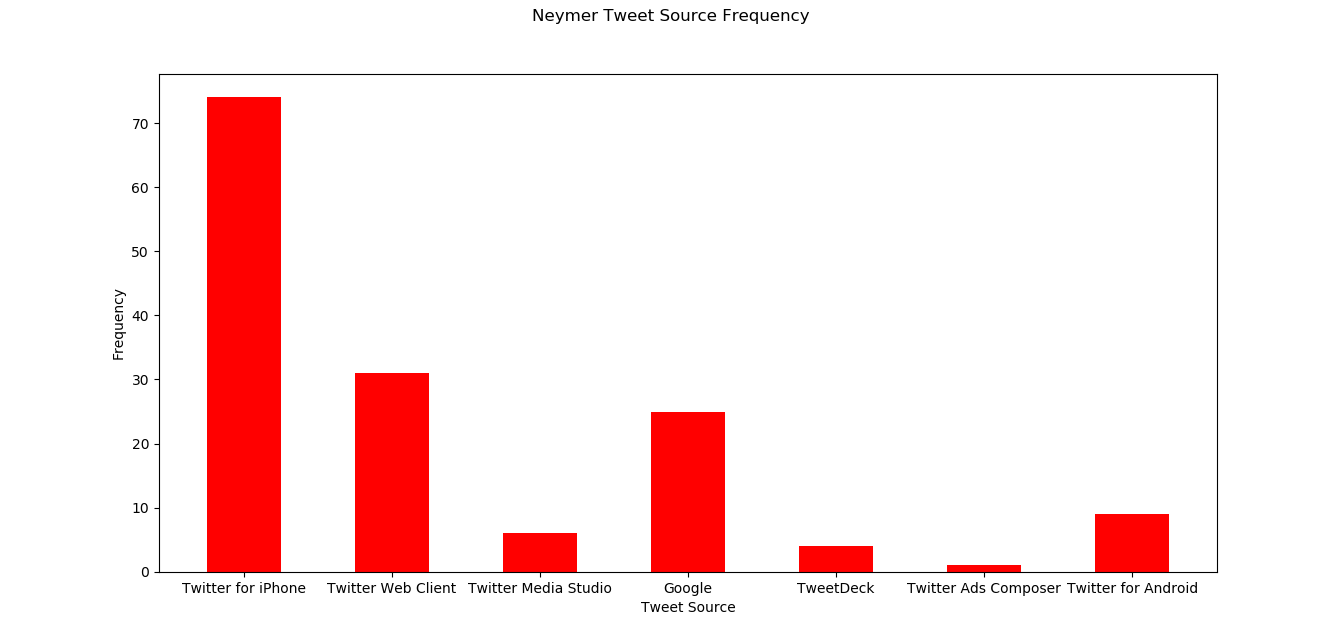
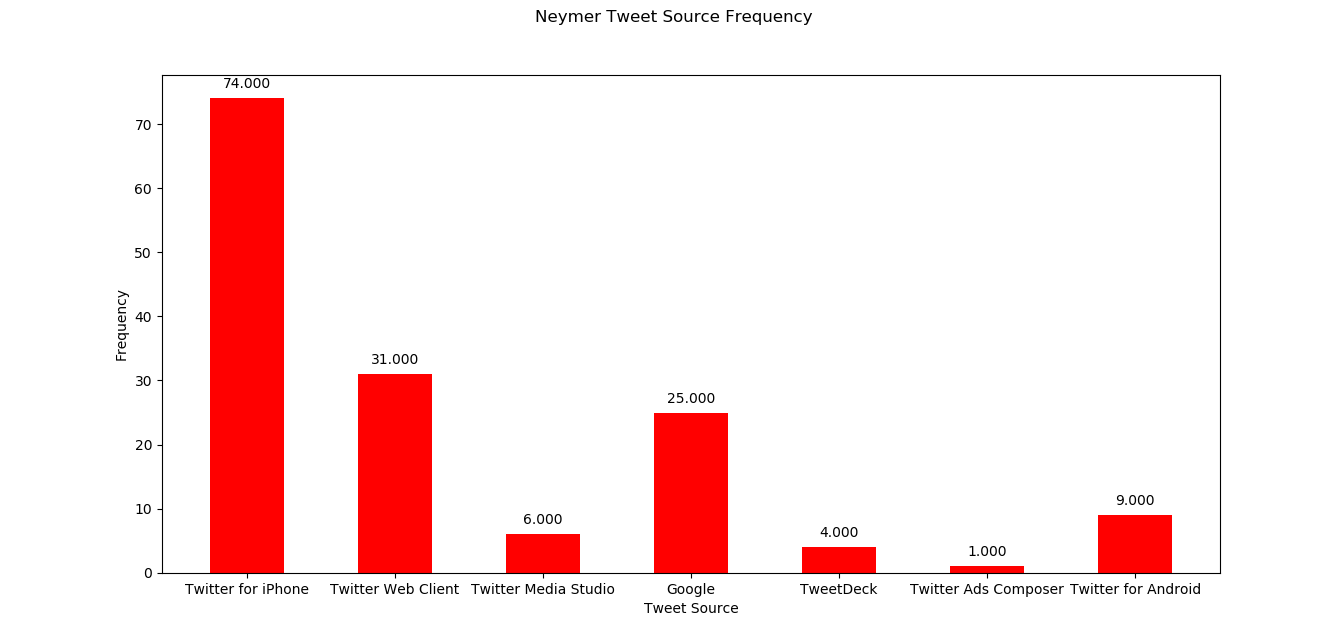
twitter ratio complete

diff --git a/twitter_ratio_analysis.py b/twitter_ratio_analysis.py
@@ -9,6 +9,7 @@ import matplotlib.pyplot as plt
 import tweepy
 import requests
 from bs4 import BeautifulSoup
+import pickle
 
 #Setting up Authentication
 
@@ -17,12 +18,57 @@ auth.set_access_token(access_token, access_secret)
 
 api = tweepy.API(auth)
 
+
+#Functions that adds labels at the end of each bar in a bar chart
+def add_value_labels(ax, spacing=5):
+    """Add labels to the end of each bar in a bar chart.
+
+    Arguments:
+        ax (matplotlib.axes.Axes): The matplotlib object containing the axes
+            of the plot to annotate.
+        spacing (int): The distance between the labels and the bars.
+    """
+
+    # For each bar: Place a label
+    for rect in ax.patches:
+        # Get X and Y placement of label from rect.
+        y_value = rect.get_height()
+        x_value = rect.get_x() + rect.get_width() / 2
+
+        # Number of points between bar and label. Change to your liking.
+        space = spacing
+        # Vertical alignment for positive values
+        va = 'bottom'
+
+        # If value of bar is negative: Place label below bar
+        if y_value < 0:
+            # Invert space to place label below
+            space *= -1
+            # Vertically align label at top
+            va = 'top'
+
+        # Use Y value as label and format number with one decimal place
+        label = "{:.3f}".format(y_value)
+
+        # Create annotation
+        ax.annotate(
+            label,                      # Use `label` as label
+            (x_value, y_value),         # Place label at end of the bar
+            xytext=(0, space),          # Vertically shift label by `space`
+            textcoords="offset points", # Interpret `xytext` as offset in points
+            ha='center',                # Horizontally center label
+            va=va)                      # Vertically align label differently for
+                                        # positive and negative values.
+
+
+
+
 #Calculating twitter ration for twitter accounts -Messi, Ronaldo, Neymer
 
+"""
 #Twitter ratio for messi
 twitter_ratio_messi = []
-for status in tweepy.Cursor(api.user_timeline, id="imessi").items(1000):
-    print(status.text)
+for status in tweepy.Cursor(api.user_timeline, id="imessi").items(150):
     retweets = status.retweet_count
     likes = status.favorite_count
     status = 'https://twitter.com/imessi/status/{}'.format(status.id)
@@ -32,9 +78,100 @@ for status in tweepy.Cursor(api.user_timeline, id="imessi").items(1000):
     num_replies = int(replies['data-tweet-stat-count'])
     print(retweets, likes, num_replies)
     twitter_ratio_messi.append(round((num_replies/(likes + retweets)), 3))  
-    print(twitter_ratio_messi)
     print("--------------------------------------------------------------------")
         
+print(twitter_ratio_messi)
+print(len(twitter_ratio_messi))
+
+#Pickling twitter ratio for messi
+with open('pickles/twitter_ratio_messi.pkl', 'wb') as f:
+    pickle.dump(twitter_ratio_messi, f)
+
+
+#Twitter ratio for Ronaldo
+twitter_ratio_ronaldo = []
+for status in tweepy.Cursor(api.user_timeline, id="Cristiano").items(150):
+    retweets = status.retweet_count
+    likes = status.favorite_count
+    status = 'https://twitter.com/Cristiano/status/{}'.format(status.id)
+    r = requests.get(status)
+    soup = BeautifulSoup(r.text, 'html5lib')
+    replies = soup.find('span', {"class": "ProfileTweet-actionCount"})
+    num_replies = int(replies['data-tweet-stat-count'])
+    print(retweets, likes, num_replies)
+    twitter_ratio_ronaldo.append(round((num_replies/(likes + retweets)), 3))  
+    print("--------------------------------------------------------------------")
+        
+print(twitter_ratio_ronaldo)
+print(len(twitter_ratio_ronaldo))
+
+#Pickling twitter ratio for ronaldo
+with open('pickles/twitter_ratio_ronaldo.pkl', 'wb') as f:
+    pickle.dump(twitter_ratio_ronaldo, f)
+
+
+#Twitter ratio for neymer
+twitter_ratio_neymer = []
+for status in tweepy.Cursor(api.user_timeline, id="neymarjr").items(150):
+    retweets = status.retweet_count
+    likes = status.favorite_count
+    status = 'https://twitter.com/neymarjr/status/{}'.format(status.id)
+    r = requests.get(status)
+    soup = BeautifulSoup(r.text, 'html5lib')
+    replies = soup.find('span', {"class": "ProfileTweet-actionCount"})
+    num_replies = int(replies['data-tweet-stat-count'])
+    print(retweets, likes, num_replies)
+    twitter_ratio_neymer.append(round((num_replies/(likes + retweets)), 3))  
+    print("--------------------------------------------------------------------")
+        
+print(twitter_ratio_neymer)
+print(len(twitter_ratio_neymer))
+
+#Pickling twitter ratio for neymer
+with open('pickles/twitter_ratio_neymer.pkl', 'wb') as f:
+    pickle.dump(twitter_ratio_neymer, f)
+
+"""
+
+#loading from pickel cashed file 
+with open('pickles/twitter_ratio_messi.pkl', 'rb') as f:
+    twitter_ratio_messi  = pickle.load(f)
+
+with open('pickles/twitter_ratio_ronaldo.pkl', 'rb') as f:
+    twitter_ratio_ronaldo  = pickle.load(f)
+    
+with open('pickles/twitter_ratio_neymer.pkl', 'rb') as f:
+    twitter_ratio_neymer  = pickle.load(f)
+
+
+twitter_ratio = {}
+
+twitter_ratio["Messi"] = round((sum(twitter_ratio_messi)/ len(twitter_ratio_messi)) * 100, 4)
+twitter_ratio["Ronaldo"] = round((sum(twitter_ratio_ronaldo)/ len(twitter_ratio_ronaldo)) * 100, 4)
+twitter_ratio["Neymer"] = round((sum(twitter_ratio_neymer)/ len(twitter_ratio_neymer)) * 100, 4)
+
+print(twitter_ratio)
+
+
+
+
+
+#plotting the twitter ratio of messi, ronaldo, neymer
+
+figure, ax = plt.subplots()
+ax.bar(list(twitter_ratio.keys()), list(twitter_ratio.values()),width=0.5, )
+figure.suptitle('Average Twitter Ratio')
+ax.set_xlabel('Users')
+ax.set_ylabel('Twitter ratio')
+
+add_value_labels(ax)
+plt.show()
+
+
+
+
+
+
 
 
 

diff --git a/tweet_source_analysis.py b/tweet_source_analysis.py
@@ -16,6 +16,52 @@ def find_client(tweets):
     return dict(Counter(tweet_source))
 
 
+#Functions that adds labels at the end of each bar in a bar chart
+def add_value_labels(ax, spacing=5):
+    """Add labels to the end of each bar in a bar chart.
+
+    Arguments:
+        ax (matplotlib.axes.Axes): The matplotlib object containing the axes
+            of the plot to annotate.
+        spacing (int): The distance between the labels and the bars.
+    """
+
+    # For each bar: Place a label
+    for rect in ax.patches:
+        # Get X and Y placement of label from rect.
+        y_value = rect.get_height()
+        x_value = rect.get_x() + rect.get_width() / 2
+
+        # Number of points between bar and label. Change to your liking.
+        space = spacing
+        # Vertical alignment for positive values
+        va = 'bottom'
+
+        # If value of bar is negative: Place label below bar
+        if y_value < 0:
+            # Invert space to place label below
+            space *= -1
+            # Vertically align label at top
+            va = 'top'
+
+        # Use Y value as label and format number with one decimal place
+        label = "{:.3f}".format(y_value)
+
+        # Create annotation
+        ax.annotate(
+            label,                      # Use `label` as label
+            (x_value, y_value),         # Place label at end of the bar
+            xytext=(0, space),          # Vertically shift label by `space`
+            textcoords="offset points", # Interpret `xytext` as offset in points
+            ha='center',                # Horizontally center label
+            va=va)                      # Vertically align label differently for
+                                        # positive and negative values.
+
+
+
+
+
+
 
 
 #loading from pickel cashed file 
@@ -46,6 +92,7 @@ axM.bar(list(messi_tweet_source.keys()), list(messi_tweet_source.values()),width
 figureM.suptitle('Messi Tweet Source Frequency')
 axM.set_xlabel('Tweet Source')
 axM.set_ylabel('Frequency')
+add_value_labels(axM)
 
 #plotting Ronaldo
 figureR, axR = plt.subplots()
@@ -53,6 +100,7 @@ axR.bar(list(ronaldo_tweet_source.keys()), list(ronaldo_tweet_source.values()),w
 figureR.suptitle('Ronaldo Tweet Source Frequency')
 axR.set_xlabel('Tweet Source')
 axR.set_ylabel('Frequency')
+add_value_labels(axR)
 
 
 #plotting Neymer
@@ -61,6 +109,7 @@ axN.bar(list(neymer_tweet_source.keys()), list(neymer_tweet_source.values()),wid
 figureN.suptitle('Neymer Tweet Source Frequency')
 axN.set_xlabel('Tweet Source')
 axN.set_ylabel('Frequency')
+add_value_labels(axN)
 
 
 
